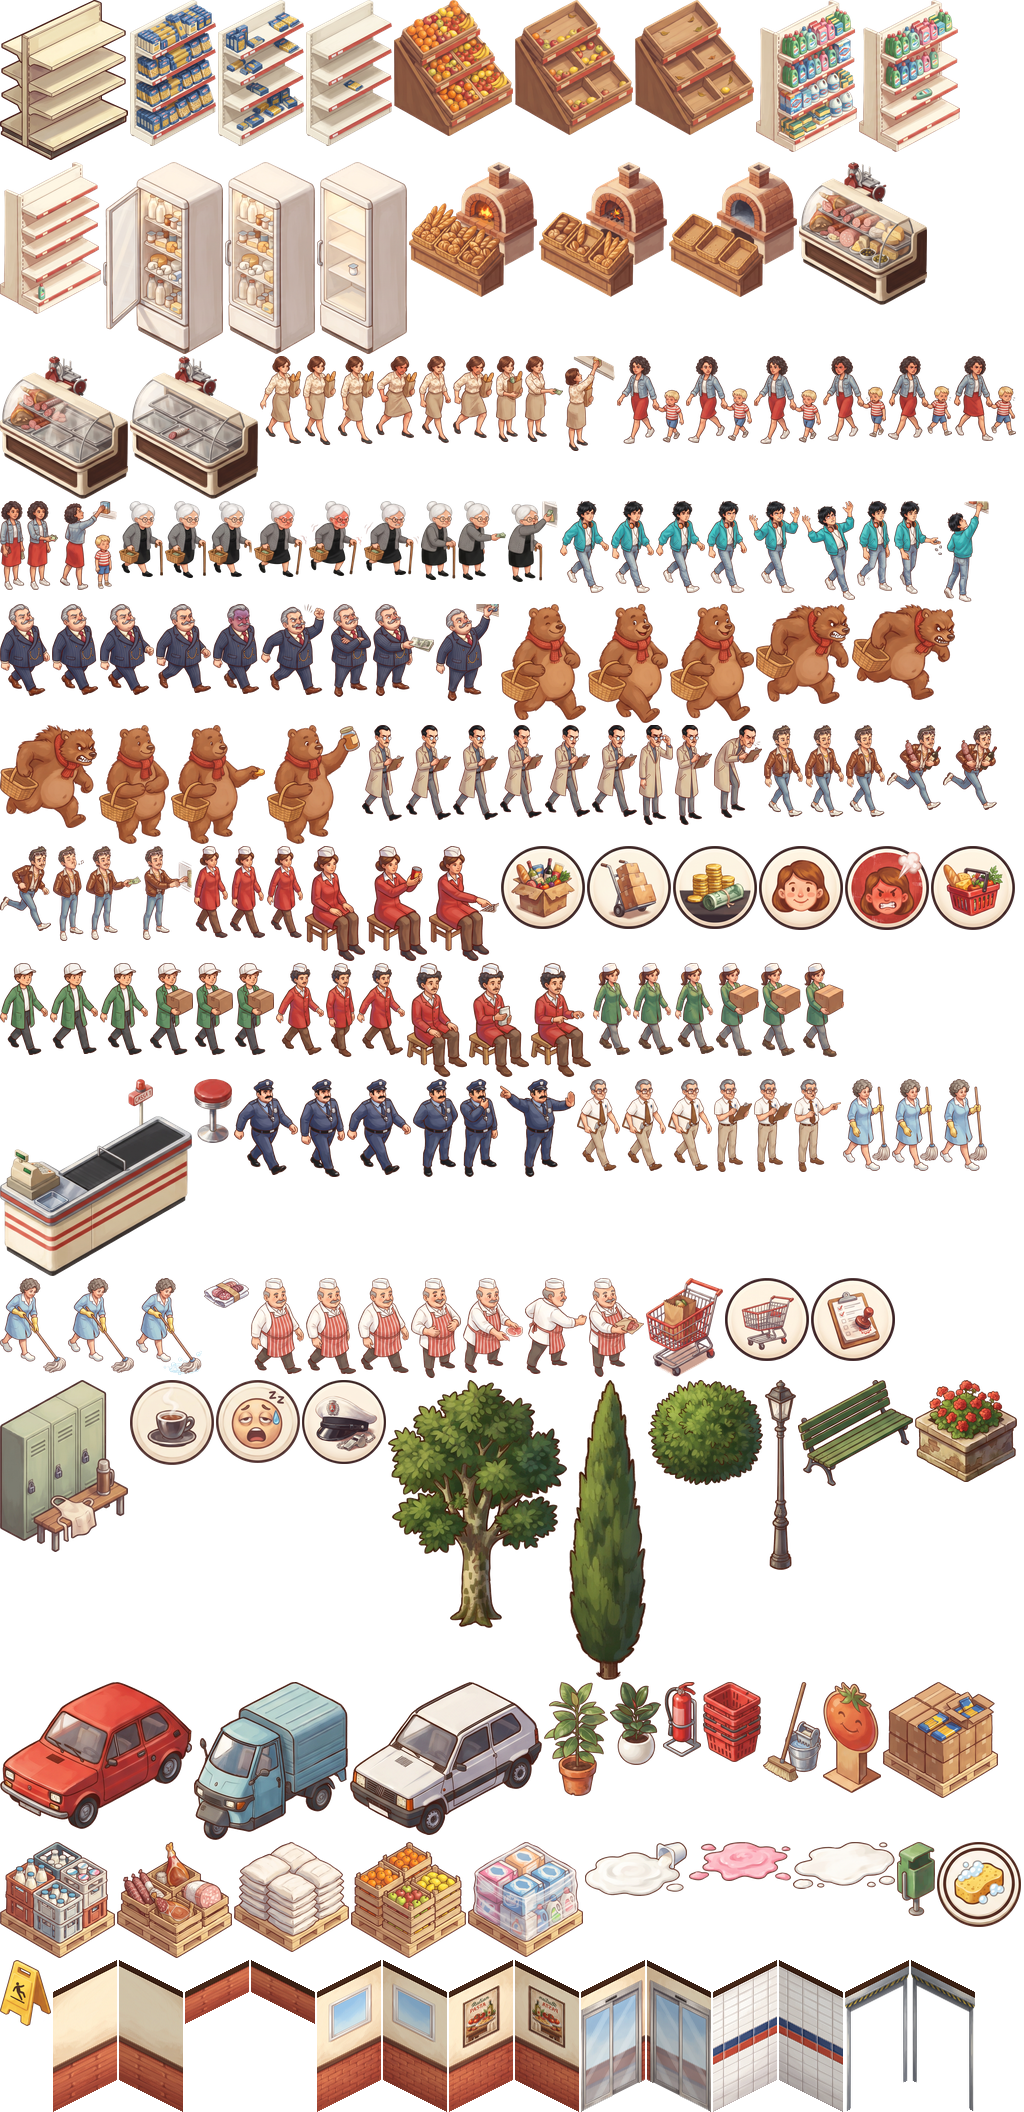
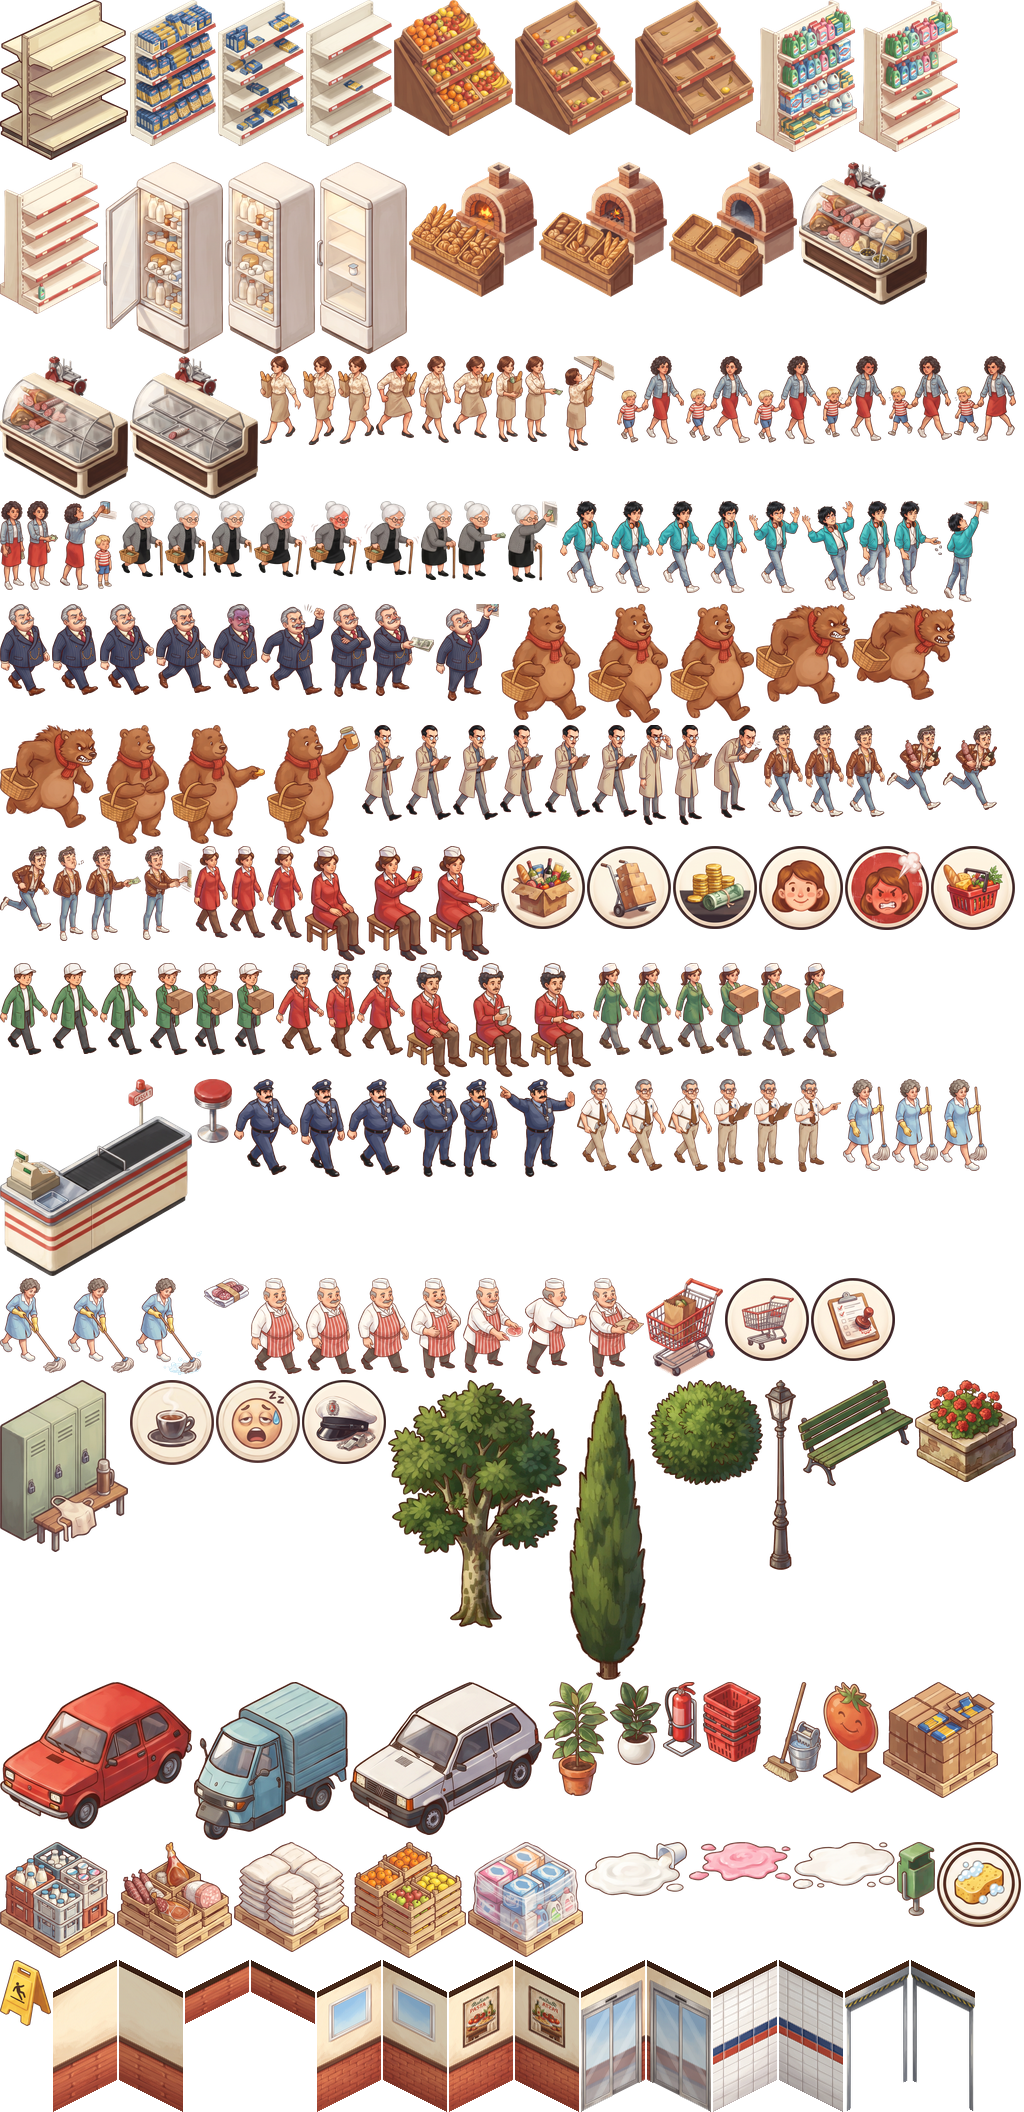
Walkers face where they go and bob each step (playtest)
Signora and mamma sheets were painted facing left: mirrored in kit.py.
Gemini walk frames barely differ, so walkers rise mid-step.

Changed region(s): [[0.5938, 0.1562, 1.0, 0.2188], [0.25, 0.1562, 0.375, 0.2188]]

diff --git a/src/render/draw.ts b/src/render/draw.ts
@@ -1,7 +1,7 @@
 // Drawing: painted sprites from the kit atlas (milestone 07); flat iso boxes as fallback when a frame is missing.
 import type { GameObjects } from 'phaser';
 import { gridToIso, TILE_W, TILE_H } from './iso.ts';
-import { SPRITES, SPILL_FRAMES, personFrame, objectFrame } from './sprites.ts';
+import { SPRITES, SPILL_FRAMES, personFrame, objectFrame, walkBob } from './sprites.ts';
 import { walls, doorEdge, type Edge } from './walls.ts';
 import { cashierAt } from '../sim/staff.ts';
 import { STAFF_ONLY, cellsOf } from '../sim/build.ts';
@@ -108,7 +108,7 @@ const feet = (x: number, y: number) => { const p = gridToIso(x, y); return { x: 
 export function drawCustomer(g: G, over: G, s: GameState, c: Customer, put: Put = noPut, depth = 0) {
     const angry = c.state === 'leaving_angry';
     const f = feet(c.x, c.y);
-    const drawn = put(personFrame(s, c), f.x, f.y + 2, depth, goesLeft(c, c.path[0]));
+    const drawn = put(personFrame(s, c), f.x, f.y + 2 - (c.path.length ? walkBob(c) : 0), depth, goesLeft(c, c.path[0]));
     if (!drawn) box(g, c.x, c.y, CUSTOMER_H, angry ? CUSTOMER_ANGRY : CUSTOMER, 0.35);
     if (c.state === 'leaving' || angry || c.kind === 'ispettore') return; // the inspector has no patience to lose
     // patience bar over the head
@@ -151,7 +151,7 @@ export function drawStaff(g: G, s: GameState, st: Staff, put: Put = noPut, depth
         if (put(frame, p.x, p.y + 4, depth, turned)) return;
     }
     const seat = st.role === 'banconiere' ? DELI_PX : SEAT_PX;
-    if (seated ? put(frame, at.x + (turned ? -seat.x : seat.x), at.y + seat.y, depth, st.role === 'banconiere' ? turned : !turned) : put(frame, f.x, f.y + 2, depth, goesLeft(st, st.path[0]))) return;
+    if (seated ? put(frame, at.x + (turned ? -seat.x : seat.x), at.y + seat.y, depth, st.role === 'banconiere' ? turned : !turned) : put(frame, f.x, f.y + 2 - (st.path.length ? walkBob(st) : 0), depth, goesLeft(st, st.path[0]))) return;
     box(g, st.x - o, st.y - o, 24, ROLE_COLOR[st.role], 0.38);
     box(g, st.x - o, st.y - o, 28, 0xf4efe6, 0.24); // berretto bianco
     if (st.job?.units) box(g, st.x + 0.15, st.y + 0.15, 16, CRATE, 0.3); // scatolone in mano

diff --git a/tests/sprites.test.ts b/tests/sprites.test.ts
@@ -3,7 +3,7 @@ import assert from 'node:assert/strict';
 import { tick, createState } from '../src/sim/state.ts';
 import { FEMALE_NAMES, ROLE_SEX } from '../src/sim/config.ts';
 import { spawnCustomer } from '../src/sim/customers.ts';
-import { personFrame, objectFrame, SHELF_FRAMES } from '../src/render/sprites.ts';
+import { personFrame, objectFrame, SHELF_FRAMES, walkBob } from '../src/render/sprites.ts';
 import type { ShopObject, Category } from '../src/sim/state.ts';
 import { shop, untilTicks, hireStaff, withWarehouse } from './helpers.ts';
 
@@ -17,6 +17,12 @@ test('a walking customer steps through walk frames', () => {
     }
     assert.ok([...seen].every((f) => f.startsWith('signora_walk_')), [...seen].join());
     assert.ok(seen.size >= 2, 'frames change while walking');
+});
+
+test('walkers bob: feet down on contact, body up mid-step (playtest 2026-11-27)', () => {
+    assert.ok(walkBob({ x: 3, y: 4 }) < 0.01, 'foot down');
+    assert.ok(walkBob({ x: 3.25, y: 4 }) >= 2, 'up mid-step');
+    assert.ok(walkBob({ x: 3, y: 4.5 }) < 0.01, 'down again on the next contact');
 });
 
 test('each customer type has its own frames', () => {

diff --git a/src/render/sprites.ts b/src/render/sprites.ts
@@ -62,6 +62,8 @@ export const KIT_SCALE = 0.5;
 const STRIDE = 4;
 const CYCLE = [0, 1, 2, 1];
 const step = (p: { x: number; y: number }) => CYCLE[Math.floor((p.x + p.y) * STRIDE) % CYCLE.length];
+/** Screen px a walker rises mid-step, 0 with a foot down: the Gemini walk frames barely differ, the bounce sells the walk (playtest 2026-11-27). */
+export const walkBob = (p: { x: number; y: number }) => 2.5 * Math.sin(((p.x + p.y) * STRIDE * Math.PI) / 2) ** 2;
 /** Game seconds per scan pose while a customer pays (GAME_MIN_PER_SEC 3: ~0.3 s real at 1x). */
 const SCAN_SEC = 54;
 

diff --git a/tools/kit.py b/tools/kit.py
@@ -18,6 +18,8 @@ RES = 2  # frames stored at 2x, drawn at 0.5 scale: sharp when zoomed in
 SEATED = 1.3  # seated cashiers drawn bigger, to match the two-cell counter (playtest 2026-11-27)
 STATES = lambda b: [b, f'{b}_mezzo', f'{b}_vuoto']
 WALK = lambda n: [f'{n}_walk_0', f'{n}_walk_1', f'{n}_walk_2']
+# Painted facing screen left, unlike the rest (draw.ts mirrors by walking direction, assuming bottom-right): mirrored here (playtest 2026-11-27).
+FACES_LEFT = {*WALK('signora'), *WALK('mamma'), 'mamma_angry_0', 'mamma_angry_1', 'mamma_angry_2'}
 SHEETS = [
     ('arredi.jpg', 3, 3, ('w', 1.0), ['scaffale', None, None, None, None, None, None, None, None]),  # goods: STATES sheets; till: cassa.jpg; door: see WALLS
     # milestone 25: one sheet per unit, full / half / empty
@@ -107,6 +109,7 @@ def pieces():
                     f, foot = v * TILE_W / 2 * RES / max(xb, p.width - xb), xb / p.width
                 k = f; ax = foot
             else: f = f or v * RES / p.height; k = f * (w or 1); ax = min(1, max(0, (cw / 2 - left) / p.width))
+            if name in FACES_LEFT: p, ax = p.transpose(Image.FLIP_LEFT_RIGHT), 1 - ax
             yield name, p.resize((max(1, round(p.width * k)), max(1, round(p.height * k))), Image.LANCZOS), round(ax, 3)
 
 WALL_H = 60  # game px

diff --git a/docs/STATE.md b/docs/STATE.md
@@ -16,7 +16,7 @@ development (scaffold completato)
 
 ## Last action
 
-Numeri dei soldi che salgono (+€ verde, −€ rosso) dove entrano o escono; tocco su un mobile per spostarlo (✓ fatto). `npm test` 128/128, browser 18/18. Prima: Milestone 26: mobili in prova prima di comprarli (tocca per spostare, 🔄 gira, ✓ compra, ✕ annulla). `npm test` 127/127, browser 18/18. Prima: Scaffali Pasta/Frutta/Detersivi ancorati al piede: dentro la loro cella (playtest). Prima: Pulsanti larghi uguali (playtest): menu, barra in basso, voci, schede Staff, Assumi/Scheda/Ordina, Licenzia/Trova. Prima: Milestone 22: livelli 4–7 (Fratelli Bonetti, Supermercato del Corso, Supermercato Primavera, Ipermercato Stella), ogni meccanica sbloccata da un solo livello, bilanciati a 8 semi; menu Campagna su due colonne in orizzontale. `npm test` 127/127, browser 18/18. Prima: Milestone 25: sei mobili rifatti (scaffali Pasta, Frutta, Detersivi, frigo, forno, banco salumi) con stato pieno / mezzo / vuoto dalla merce (≤5 mezzo). Prima, dal playtest: saracinesca nei varchi del magazzino, cassa nuova lunga due celle col registratore all'uscita, cassiere seduto più grande, alone delle icone non più tagliato. `npm test` 126/126, browser 18/18. Prima: Muri: piastrelle bianche dentro magazzino e spogliatoio, intonaco e mattoni uniformi dal lato della sala. `npm test` 124/124, browser 18/18. Prima: Muri interni solo attorno a magazzino e spogliatoio (sala e casse aperte, playtest). `npm test` 124/124, browser 18/18. Prima: Milestone 24: muri nuovi (esterni intonaco/mattoni/finestre, interni piastrelle), cassa dritta col cassiere dietro e la fila davanti, cassieri uomini e magazziniere donne (sesso dal nome), tab per mansione nel pannello Staff, vista dal vivo nella scheda. 4 fogli Gemini nuovi. `npm test` 124/124, browser 18/18. Prima: Milestone 23 dal playtest: livello 1 in un giorno (€850/45%/45) con vecchiette; muri tra stanze con varco (anche nella sim) e muretti bassi davanti; UI rifatta con palette Insegna (crema/blu/rosso/senape, disegnata in codice); scheda del lavoratore (tocca un lavoratore). Cassiera sparita non riprodotta (backlog). `npm test` 123/123, browser 18/18. Prima: Feedback playtest: icone da toccare con pulse e glow; gruppo Attrezzi tolto (pressione lunga anche sulle stanze vuote: 🗑); rotellina ⚙ in alto a destra con menu Continua / Audio / Nuova partita. `npm test` 122/122, browser 17/17. Prima: Milestone 21b: prato, strada con macchine che passano, marciapiedi con lampioni e fioriere, alberi, insegna sulla porta, decorazioni negli angoli delle stanze, piazzale e magazzino chiari (`src/render/scenery.ts`, fogli `esterno.jpg`, `interni.jpg`). `npm test` 122/122. Prima: Pressione lunga sugli arredi (✋ sposta, 🔄 gira, 🗑 togli; comando `move`), bancali dipinti in magazzino (`magazzino.jpg`). `npm test` 118/118, browser 17/17. Prima: Milestone 21: HUD a una riga con barre obiettivo, barra in basso a gruppi con icone e prezzi, guida del livello 1 con Pina e freccia, "Novità" una volta sola, canvas a devicePixelRatio. `npm test` 115/115, browser 16/16. Prima: Confronto con Theme Hospital: punti 1, 6, 7, 8 (schermo pieno, testo nitido, Pina consigliera, icone) nel milestone 21; nuovo milestone 21b atmosfera (esterno, decorazioni, muri leggibili); folla nel backlog. Prima: Milestone 20: campagna (`src/sim/levels.ts`), livelli 1–3 a negozi prestabiliti con sblocchi nella sim, menu Campagna/Negozio libero, progressi salvati, camera sulle stanze. `npm test` 112/112, browser 14/14. Prima: Milestone planning: campagna a negozi prestabiliti (ADR-0003) → milestone 20 (sistema livelli + livelli 1–3), 21 (interfaccia facile), 22 (livelli 4–7); ordine e scelte confermati dall'utente (negozi inventati, stanze fisse, Negozio libero dopo il 3). Prima: Milestone 19: ruoli guardia (becca i furbetti vicino alla cassa) e capo reparto (un tocco ogni 1,5 s: conti, macchie, scaffali, carrelli); fogli Gemini `guardia.jpg`, `capo.jpg`. Bot di bilanciamento a 8 semi: obiettivi livello 1 → €1500 / 60% / 270 serviti. `npm test` 104/104, browser 13/13. Prima: Milestone 18: energia dello staff, stanza Spogliatoio con Armadietti, pause una per ruolo, stanchi lenti senza spogliatoio; foglio Gemini `spogliatoio.jpg`. Obiettivo soldi 3500→2800. `npm test` 97/97, browser 13/13. Prima: Milestone 17: stanza Panetteria col forno (il banconiere sforna il pane a infornate, profumo che attira clienti), frigo per i Latticini; foglio Gemini `forno.jpg` 2×2. Pane 5 €. `npm test` 89/89, browser 13/13. Prima: Milestone planning: 17 forno e frigo, 18 spogliatoio e stanchezza, 19 guardia e capo reparto (ordine confermato dall'utente). Prima: Milestone 16: audio tutto sintetizzato (Web Audio + voce del telefono), muzak, effetti, annunci comici, tasto Audio. `npm test` 84/84, browser 13/13. Prima: Milestone 15: cliente furbetto (salta la fila o scappa senza pagare), tocco 👮 per beccarlo (paga, +rep), toast "Beccato!". Fogli Gemini `furbetto.jpg` 3×3 e `beccato.jpg`. `npm test` 80/80, browser 12/12. Prima: Milestone 14: carrelli abbandonati (il magazziniere li porta via, tocco 🛒), ispezione sanitaria al giorno 3 (multa per macchia o bonus). Obiettivo soldi livello 1 → €3500. `npm test` 74/74, browser 12/12. Prima: Milestone 13: stanza banco salumi, bancone con affettatrice, banconiere (quarto ruolo) con la sua fila; Salumi solo al banco. Fogli Gemini `bancone.jpg`, `banconiere.jpg`. `npm test` 69/69, browser 12/12. Prima: Milestone 12: macchie di yogurt (`src/sim/dirt.ts`), cestino, addetto pulizie (terzo ruolo), icona spugna da toccare; fogli Gemini `pulizie.jpg` e `sporco.jpg`. `npm test` 64/64, browser 12/12. Prima: Milestone planning (11 salvataggio e menu, 12 sporco e pulizie, 13 banco salumi, confermati dall'utente). Milestone 11: `src/sim/save.ts`, salvataggio automatico in localStorage, menu iniziale Continua/Nuova partita, briefing con gli obiettivi; `?manual&save` per i test browser. `npm test` 57/57, browser 12/12.
+Camminata (playtest): signora e mamma erano disegnate rivolte a sinistra e camminavano all'indietro, ora specchiate in `tools/kit.py` (`FACES_LEFT`); tutti i personaggi a piedi dondolano a ogni passo (`walkBob`), perché i fotogrammi Gemini delle gambe quasi non cambiano. `npm test` 129/129. Prima: Numeri dei soldi che salgono (+€ verde, −€ rosso) dove entrano o escono; tocco su un mobile per spostarlo (✓ fatto). `npm test` 128/128, browser 18/18. Prima: Milestone 26: mobili in prova prima di comprarli (tocca per spostare, 🔄 gira, ✓ compra, ✕ annulla). `npm test` 127/127, browser 18/18. Prima: Scaffali Pasta/Frutta/Detersivi ancorati al piede: dentro la loro cella (playtest). Prima: Pulsanti larghi uguali (playtest): menu, barra in basso, voci, schede Staff, Assumi/Scheda/Ordina, Licenzia/Trova. Prima: Milestone 22: livelli 4–7 (Fratelli Bonetti, Supermercato del Corso, Supermercato Primavera, Ipermercato Stella), ogni meccanica sbloccata da un solo livello, bilanciati a 8 semi; menu Campagna su due colonne in orizzontale. `npm test` 127/127, browser 18/18. Prima: Milestone 25: sei mobili rifatti (scaffali Pasta, Frutta, Detersivi, frigo, forno, banco salumi) con stato pieno / mezzo / vuoto dalla merce (≤5 mezzo). Prima, dal playtest: saracinesca nei varchi del magazzino, cassa nuova lunga due celle col registratore all'uscita, cassiere seduto più grande, alone delle icone non più tagliato. `npm test` 126/126, browser 18/18. Prima: Muri: piastrelle bianche dentro magazzino e spogliatoio, intonaco e mattoni uniformi dal lato della sala. `npm test` 124/124, browser 18/18. Prima: Muri interni solo attorno a magazzino e spogliatoio (sala e casse aperte, playtest). `npm test` 124/124, browser 18/18. Prima: Milestone 24: muri nuovi (esterni intonaco/mattoni/finestre, interni piastrelle), cassa dritta col cassiere dietro e la fila davanti, cassieri uomini e magazziniere donne (sesso dal nome), tab per mansione nel pannello Staff, vista dal vivo nella scheda. 4 fogli Gemini nuovi. `npm test` 124/124, browser 18/18. Prima: Milestone 23 dal playtest: livello 1 in un giorno (€850/45%/45) con vecchiette; muri tra stanze con varco (anche nella sim) e muretti bassi davanti; UI rifatta con palette Insegna (crema/blu/rosso/senape, disegnata in codice); scheda del lavoratore (tocca un lavoratore). Cassiera sparita non riprodotta (backlog). `npm test` 123/123, browser 18/18. Prima: Feedback playtest: icone da toccare con pulse e glow; gruppo Attrezzi tolto (pressione lunga anche sulle stanze vuote: 🗑); rotellina ⚙ in alto a destra con menu Continua / Audio / Nuova partita. `npm test` 122/122, browser 17/17. Prima: Milestone 21b: prato, strada con macchine che passano, marciapiedi con lampioni e fioriere, alberi, insegna sulla porta, decorazioni negli angoli delle stanze, piazzale e magazzino chiari (`src/render/scenery.ts`, fogli `esterno.jpg`, `interni.jpg`). `npm test` 122/122. Prima: Pressione lunga sugli arredi (✋ sposta, 🔄 gira, 🗑 togli; comando `move`), bancali dipinti in magazzino (`magazzino.jpg`). `npm test` 118/118, browser 17/17. Prima: Milestone 21: HUD a una riga con barre obiettivo, barra in basso a gruppi con icone e prezzi, guida del livello 1 con Pina e freccia, "Novità" una volta sola, canvas a devicePixelRatio. `npm test` 115/115, browser 16/16. Prima: Confronto con Theme Hospital: punti 1, 6, 7, 8 (schermo pieno, testo nitido, Pina consigliera, icone) nel milestone 21; nuovo milestone 21b atmosfera (esterno, decorazioni, muri leggibili); folla nel backlog. Prima: Milestone 20: campagna (`src/sim/levels.ts`), livelli 1–3 a negozi prestabiliti con sblocchi nella sim, menu Campagna/Negozio libero, progressi salvati, camera sulle stanze. `npm test` 112/112, browser 14/14. Prima: Milestone planning: campagna a negozi prestabiliti (ADR-0003) → milestone 20 (sistema livelli + livelli 1–3), 21 (interfaccia facile), 22 (livelli 4–7); ordine e scelte confermati dall'utente (negozi inventati, stanze fisse, Negozio libero dopo il 3). Prima: Milestone 19: ruoli guardia (becca i furbetti vicino alla cassa) e capo reparto (un tocco ogni 1,5 s: conti, macchie, scaffali, carrelli); fogli Gemini `guardia.jpg`, `capo.jpg`. Bot di bilanciamento a 8 semi: obiettivi livello 1 → €1500 / 60% / 270 serviti. `npm test` 104/104, browser 13/13. Prima: Milestone 18: energia dello staff, stanza Spogliatoio con Armadietti, pause una per ruolo, stanchi lenti senza spogliatoio; foglio Gemini `spogliatoio.jpg`. Obiettivo soldi 3500→2800. `npm test` 97/97, browser 13/13. Prima: Milestone 17: stanza Panetteria col forno (il banconiere sforna il pane a infornate, profumo che attira clienti), frigo per i Latticini; foglio Gemini `forno.jpg` 2×2. Pane 5 €. `npm test` 89/89, browser 13/13. Prima: Milestone planning: 17 forno e frigo, 18 spogliatoio e stanchezza, 19 guardia e capo reparto (ordine confermato dall'utente). Prima: Milestone 16: audio tutto sintetizzato (Web Audio + voce del telefono), muzak, effetti, annunci comici, tasto Audio. `npm test` 84/84, browser 13/13. Prima: Milestone 15: cliente furbetto (salta la fila o scappa senza pagare), tocco 👮 per beccarlo (paga, +rep), toast "Beccato!". Fogli Gemini `furbetto.jpg` 3×3 e `beccato.jpg`. `npm test` 80/80, browser 12/12. Prima: Milestone 14: carrelli abbandonati (il magazziniere li porta via, tocco 🛒), ispezione sanitaria al giorno 3 (multa per macchia o bonus). Obiettivo soldi livello 1 → €3500. `npm test` 74/74, browser 12/12. Prima: Milestone 13: stanza banco salumi, bancone con affettatrice, banconiere (quarto ruolo) con la sua fila; Salumi solo al banco. Fogli Gemini `bancone.jpg`, `banconiere.jpg`. `npm test` 69/69, browser 12/12. Prima: Milestone 12: macchie di yogurt (`src/sim/dirt.ts`), cestino, addetto pulizie (terzo ruolo), icona spugna da toccare; fogli Gemini `pulizie.jpg` e `sporco.jpg`. `npm test` 64/64, browser 12/12. Prima: Milestone planning (11 salvataggio e menu, 12 sporco e pulizie, 13 banco salumi, confermati dall'utente). Milestone 11: `src/sim/save.ts`, salvataggio automatico in localStorage, menu iniziale Continua/Nuova partita, briefing con gli obiettivi; `?manual&save` per i test browser. `npm test` 57/57, browser 12/12.
 
 ## Next step
 

diff --git a/docs/backlog.md b/docs/backlog.md
@@ -170,3 +170,7 @@ Promoted → `[x]` + `→ milestone NN-<slug>.md`. Rejected → `~~title~~` + `R
   - Source: gameplan
 
 - [x] Numeri dei soldi che salgono come i danni nei giochi d'azione (playtest 2026-11-27): "+€7" verde dalla cassa, "−€150" rosso dal mobile comprato, stipendi/multe/ordini sotto il contatore dei soldi. `src/sim/fx.ts` (`cash.on`), `Game.floatCash`; test `tests/cash.test.ts`. Fatto subito, senza milestone.
+
+- [x] Camminata (playtest 2026-11-27): signora e mamma camminavano all'indietro (disegni rivolti a sinistra, specchiati in `tools/kit.py` `FACES_LEFT`); dondolio a ogni passo (`walkBob` in `src/render/sprites.ts`). Fatto subito, senza milestone.
+- [ ] Personaggi visti di spalle quando camminano verso il fondo (in alto sullo schermo): ora mostrano sempre la faccia. Servono fogli Gemini nuovi con la vista da dietro, e fotogrammi delle gambe più diversi tra loro.
+  - Source: playtest 2026-11-27
